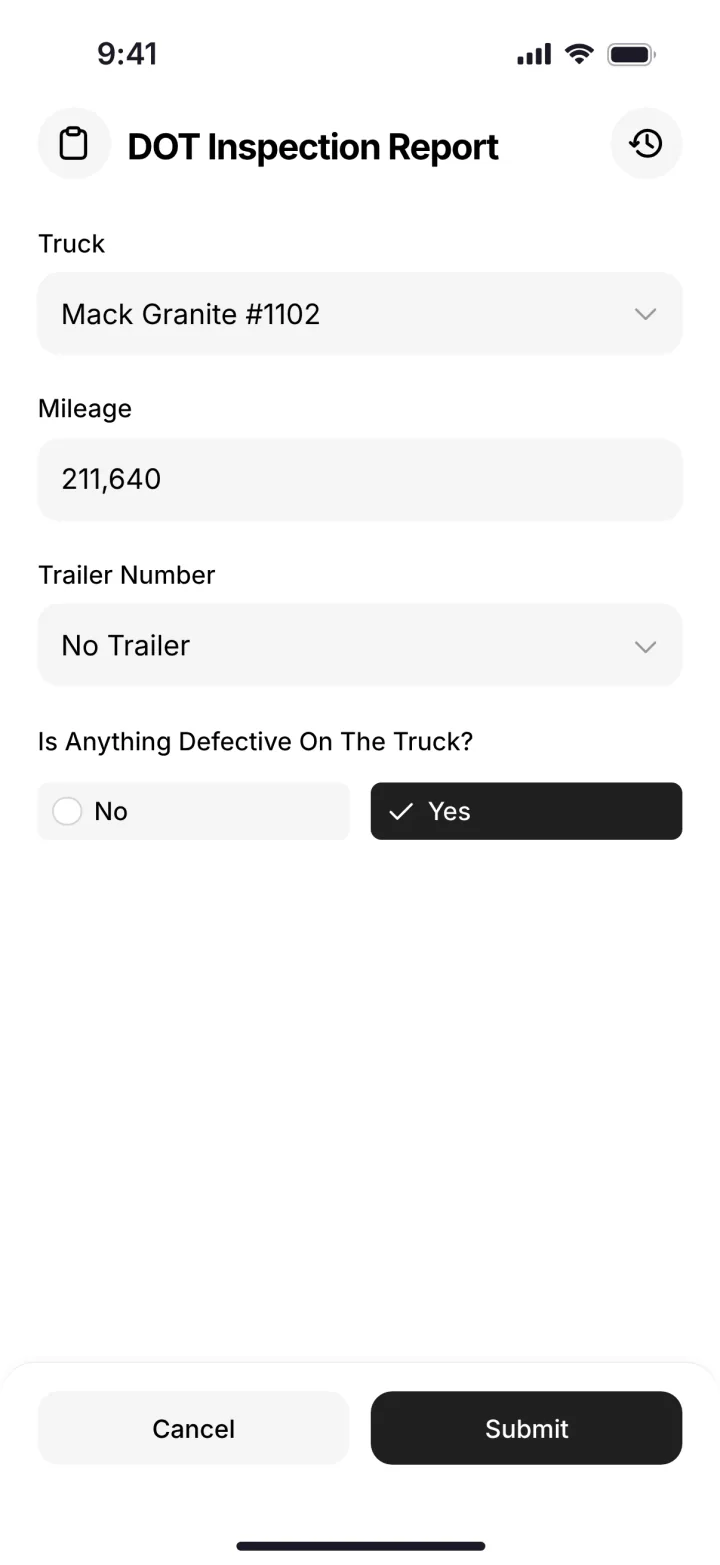
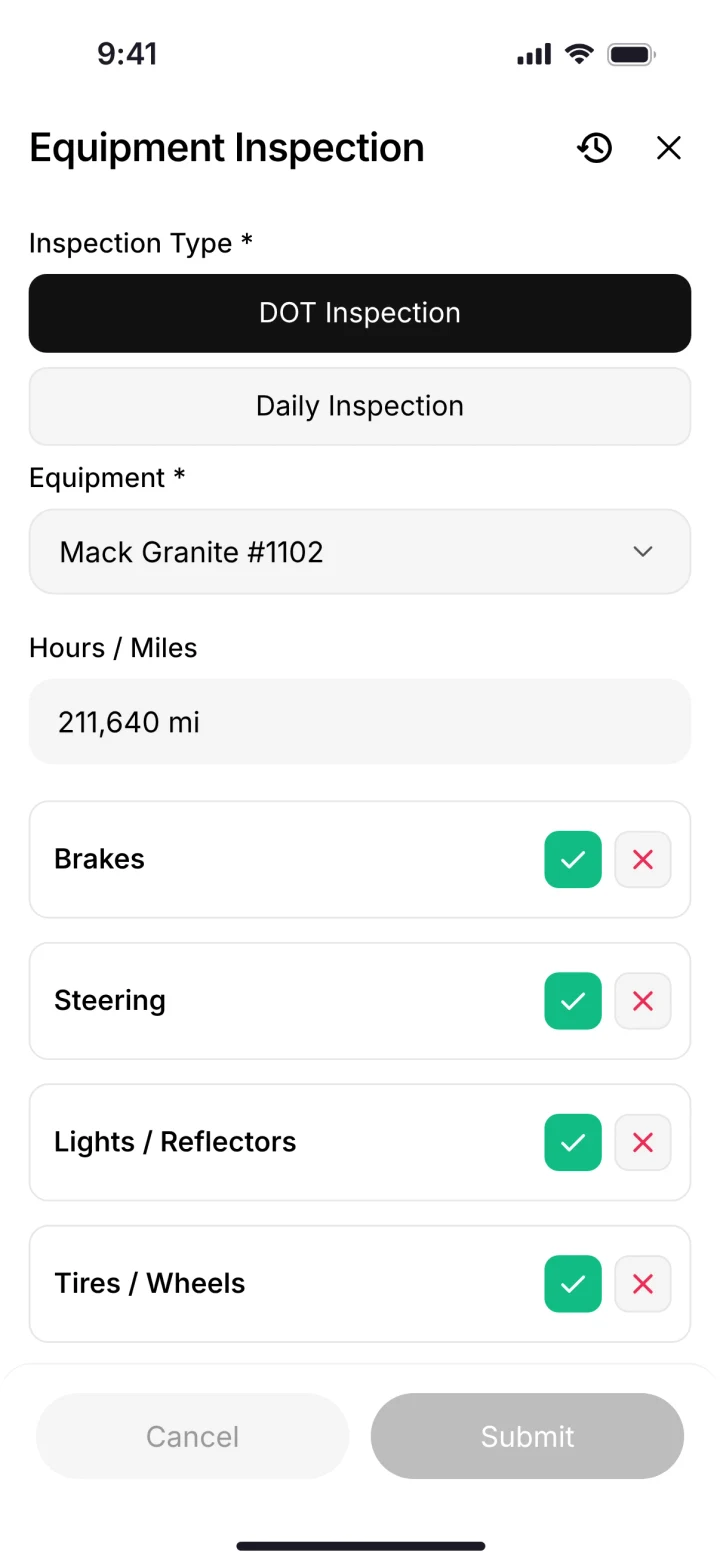
DOT inspection: the updated app's Equipment Inspection screen (James's screenshots, Oct 21)
For Andrew's comment-mode note "Check app for DOT inspection screenshot." phone-dot is now
the app's form: DOT / Daily Inspection, Equipment (Mack Granite #1102), Hours / Miles, the
check / X rows, Cancel / Submit. Images re-rendered; Try it's DOT form lists the same fields.

Claude-Session: https://claude.ai/code/session_01UmsEQXQRTjuM8dW9W2en2M

diff --git a/smartcrew/src/screens/phone/Dot.tsx b/smartcrew/src/screens/phone/Dot.tsx
@@ -1,33 +1,73 @@
-import { PhoneShell, Field, Input, Choice } from "../kit";
-import { dotForm, equipmentById } from "../data";
-import { FormHeader, formFooter } from "./ReportForms";
+import { PhoneShell, Icon } from "../kit";
+import { equipmentById } from "../data";
+import { Glyph } from "./ReportForms";
+import "./Dot.css";
 
-// M8 · DOT Inspection Report form (reference: vercel-module-dot-compliance-mobile.png). Pre-trip
-// on dump truck 1102 (same truck as the Hauling Log screen), odometer taken from its equipment
-// record, no trailer, and a defect flagged ("Yes" selected, as in the source mock).
+// M8 · DOT inspection, as the updated app draws it (James's screenshots of the app, Oct 21, for
+// Andrew's comment-mode note "Check app for DOT inspection screenshot."): "Equipment Inspection"
+// with DOT Inspection picked over Daily Inspection, the equipment and its miles filled in (dump
+// truck 1102, the Hauling Log's truck, odometer from its equipment record), then the check / X rows.
+// The rest of the form (Notes, photos, the two checkboxes) sits below the fold, as in the app.
 
-const truck = equipmentById(dotForm.truck);
+const truck = equipmentById("1102-MACK-GU713");
+
+const ITEMS = [
+  "Brakes",
+  "Steering",
+  "Lights / Reflectors",
+  "Tires / Wheels",
+  "Horn",
+  "Mirrors / Windows / Windshield Wipers",
+  "Leaks / Fluid Levels",
+  "Coupling Devices",
+  "Suspension",
+  "Frame / Body",
+  "Safety Equipment",
+  "Load Securement",
+];
+
+const footer = (
+  <>
+    <span className="dot-btn">Cancel</span>
+    <span className="dot-btn dot-btn--submit">Submit</span>
+  </>
+);
 
 export default function Dot() {
   return (
-    <PhoneShell tab={null} padded={false} bodyClassName="rf-body" footer={formFooter}>
-      <FormHeader icon="clipboard" title="DOT Inspection Report" />
+    <PhoneShell tab={null} padded={false} bodyClassName="dot-body" footer={footer}>
+      <div className="dot-head">
+        <span className="dot-title">Equipment Inspection</span>
+        <Glyph name="history" size={25} stroke={1.9} />
+        <Icon name="x" size={25} />
+      </div>
 
-      <Field label="Truck">
-        <Input select value={truck.name} placeholder="Select a truck" />
-      </Field>
-      <Field label="Mileage">
-        <Input value={truck.reading.toLocaleString("en-US")} placeholder="Enter current mileage" />
-      </Field>
-      <Field label="Trailer Number">
-        <Input select value={dotForm.trailer} />
-      </Field>
-      <Field label="Is Anything Defective On The Truck?" className="rf-field-choice">
-        <div className="rf-choices">
-          <Choice label="No" check selected={!dotForm.defective} />
-          <Choice label="Yes" check selected={dotForm.defective} />
-        </div>
-      </Field>
+      <p className="dot-label">Inspection Type *</p>
+      <div className="dot-type is-on">DOT Inspection</div>
+      <div className="dot-type">Daily Inspection</div>
+
+      <p className="dot-label">Equipment *</p>
+      <div className="dot-input dot-input--select">
+        <span>{truck.name}</span>
+        <Icon name="chevronDown" size={20} />
+      </div>
+
+      <p className="dot-label">Hours / Miles</p>
+      <div className="dot-input">{truck.reading.toLocaleString("en-US")} mi</div>
+
+      <ul className="dot-items">
+        {ITEMS.map((item) => (
+          <li key={item} className="dot-item">
+            <span>{item}</span>
+            <span className="dot-yes">
+              <Icon name="check" size={20} stroke={2} />
+            </span>
+            <span className="dot-no">
+              <Icon name="x" size={20} stroke={2} />
+            </span>
+          </li>
+        ))}
+      </ul>
     </PhoneShell>
   );
 }

diff --git a/smartcrew/src/screens/phone/Dot.css b/smartcrew/src/screens/phone/Dot.css
@@ -1,0 +1,130 @@
+/* M8 · Equipment Inspection (DOT), from the updated app's screens (James, Oct 21). 1179 px
+   screenshots mapped onto 402 px: x ≈ 0.341. Scoped under .dot-body / its footer. */
+
+.sc .dot-body {
+  padding: 0 16px;
+  overflow: hidden;
+}
+
+.sc .dot-head {
+  display: flex;
+  align-items: center;
+  gap: 16px;
+  height: 44px;
+  margin: 6px 0 22px;
+  color: #000;
+}
+.sc .dot-head .dot-title {
+  flex: 1;
+  font-size: 22px;
+  line-height: 28px;
+  font-weight: 560;
+  letter-spacing: -0.02em;
+}
+
+.sc .dot-label {
+  margin: 0 0 8px;
+  font-size: 15px;
+  line-height: 19px;
+  font-weight: 460;
+  color: #000;
+}
+
+.sc .dot-type {
+  height: 44px;
+  margin-bottom: 8px;
+  display: grid;
+  place-items: center;
+  border-radius: 10px;
+  border: 1px solid #e8e8e8;
+  background: #f4f4f4;
+  font-size: 15.5px;
+  color: #000;
+}
+.sc .dot-type.is-on {
+  border-color: #111;
+  background: #111;
+  color: #fff;
+}
+.sc .dot-type:last-of-type {
+  margin-bottom: 20px;
+}
+
+.sc .dot-input {
+  height: 48px;
+  margin-bottom: 20px;
+  display: flex;
+  align-items: center;
+  justify-content: space-between;
+  padding: 0 16px;
+  border-radius: 14px;
+  background: #f4f4f4;
+  font-size: 16px;
+  color: #000;
+}
+.sc .dot-input--select {
+  border: 1px solid #e8e8e8;
+}
+.sc .dot-input .sc-icon {
+  color: #555;
+}
+
+.sc .dot-items {
+  list-style: none;
+  margin: 0;
+  padding: 0;
+  display: flex;
+  flex-direction: column;
+  gap: 13px;
+}
+.sc .dot-item {
+  min-height: 66px;
+  display: flex;
+  align-items: center;
+  gap: 7px;
+  padding: 9px 10px 9px 13px;
+  border: 1px solid #e6e6e6;
+  border-radius: 11px;
+  background: #fff;
+  font-size: 15.5px;
+  line-height: 20px;
+  font-weight: 560;
+  color: #000;
+}
+.sc .dot-item > span:first-child {
+  flex: 1;
+  min-width: 0;
+}
+.sc .dot-yes,
+.sc .dot-no {
+  flex: none;
+  width: 32px;
+  height: 32px;
+  display: grid;
+  place-items: center;
+  border-radius: 8px;
+}
+.sc .dot-yes {
+  background: #12bc85;
+  color: #fff;
+}
+.sc .dot-no {
+  background: #f4f4f4;
+  border: 1px solid #e6e6e6;
+  color: #ec2c55;
+}
+
+/* Cancel / Submit, pill buttons as in the app (Submit greys until the form is complete) */
+.sc .dot-body + .sc-phone-footer .dot-btn {
+  height: 48px;
+  display: grid;
+  place-items: center;
+  border-radius: 999px;
+  background: #f4f4f4;
+  font-size: 16px;
+  color: #9a9a9a;
+}
+.sc .dot-body + .sc-phone-footer .dot-btn--submit {
+  background: #bdbdbd;
+  color: #fff;
+}

diff --git a/smartcrew/src/site/try/app/views.tsx b/smartcrew/src/site/try/app/views.tsx
@@ -571,7 +571,8 @@ function formFor(label: string, t: Task): { rows: [string, string][]; submit: st
     case "Field Usage Report":
       return { rows: [["Project", job], ["Material", "Select fill"], ["Quantity", "6 loads · 99 t"], ["Used for", "Trench backfill"]], submit: "Submit usage", done: "Field usage sent" };
     case "DOT Inspection Report":
-      return { rows: [["Truck", dotForm.truck], ["Mileage", dotForm.mileage], ["Trailer", dotForm.trailer], ["Defects", dotForm.defectNote]], submit: "Sign & submit", done: "DOT inspection filed" };
+      // the updated app's Equipment Inspection form (James's screenshots, Oct 21; screens/phone/Dot.tsx)
+      return { rows: [["Inspection type", "DOT Inspection"], ["Equipment", "Mack Granite #1102"], ["Hours / Miles", `${dotForm.mileage} mi`], ["Brakes, steering, lights, tires…", "12 of 12 OK"]], submit: "Submit", done: "DOT inspection filed" };
     case "Scheduling":
       return {
         rows: NEXT_WEEK.map((n, i) => [`${n.dow} ${n.label}`, `${i < 3 ? "Hwy 9 Culvert" : "Riverside Storm Sewer"} · 6:30 AM`]),

diff --git a/smartcrew/src/content/moments.ts b/smartcrew/src/content/moments.ts
@@ -92,7 +92,7 @@ export const MOMENTS: Moment[] = [
     title: "A driver does the DOT pre-trip",
     outcome: "The inspection is on the truck’s record, ready for an audit.",
     dir: "up",
-    phone: { id: "phone-dot", y: 30, ring: [21, 400, 360, 74] },
+    phone: { id: "phone-dot", y: 30, ring: [14, 151, 374, 48] },
     office: { id: "web-equipment", x: 340, y: 150, mark: { b: [340, 340, 1056, 60], label: "Truck 1102 · inspections on file" } },
     features: [
       { id: "E4", label: "DOT pre-trips", line: "Drivers do the pre-trip on the phone. You get audit-ready DOT logs without the paper.", src: "L, V-tab" },
